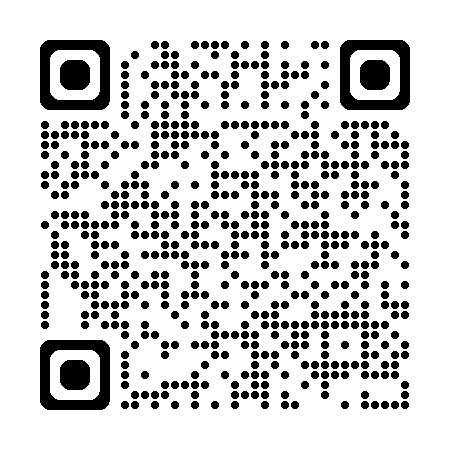
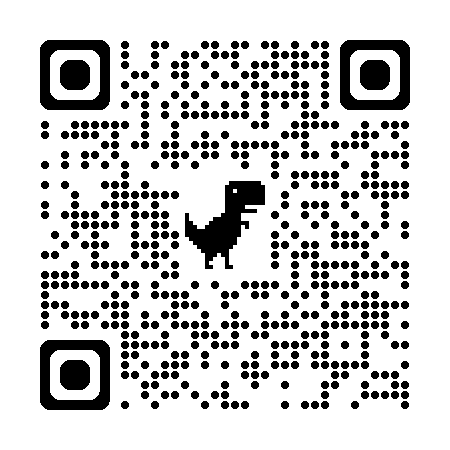
fix: change qr code destination

diff --git a/docs/presentation/index.html b/docs/presentation/index.html
@@ -190,7 +190,7 @@ Paul Wagner <a href="https://orcid.org/0000-0001-5914-0479" class="quarto-title-
 </div><div class="column" style="width:65%;">
 <p><br></p>
 <h4 id="download-materials-right-now">Download&nbsp;Materials&nbsp;Right&nbsp;Now!</h4>
-<p><a href="https://ryanstraight.com/research/nicek12-2025/">ryanstraight.com/research/nicek12‑2025</a></p>
+<p><a href="https://ryanstraight.github.io/nicek12-2025-materials/">ryanstraight.github.io/nicek12‑2025‑materials</a></p>
 <p><strong>You get:</strong></p>
 <ul>
 <li><strong>Quick Start guide</strong> (try it Monday!)</li>
@@ -374,7 +374,7 @@ Paul Wagner <a href="https://orcid.org/0000-0001-5914-0479" class="quarto-title-
 </section>
 <section id="the-evidence-ai-analysis" class="slide level2 smaller">
 <h2>The Evidence + AI Analysis</h2>
-<countdown-timer id="timer_905fe74b5cb8a35c851ac78624c2ad41016db4d1" minutes="02" seconds="00" class="countdown" warn-when="0" update-every="1" play-sound="false" blink-colon="false" start-immediately="false" tabindex="0" style="top: 0;right: 0;">
+<countdown-timer id="timer_af6c02646b8756d7e659c3be7fe365f6231eb68f" minutes="02" seconds="00" class="countdown" warn-when="0" update-every="1" play-sound="false" blink-colon="false" start-immediately="false" tabindex="0" style="top: 0;right: 0;">
  </countdown-timer>
 <div class="columns">
 <div class="column" style="width:50%;">
@@ -639,7 +639,7 @@ Force password reset, enable MFA</p>
 <li>What’s the COST if humans must approve everything?</li>
 <li>Where’s the line?</li>
 </ul>
-<countdown-timer id="timer_905fe74b5cb8a35c851ac78624c2ad41016db4d1" minutes="04" seconds="00" class="countdown" warn-when="0" update-every="1" play-sound="false" blink-colon="false" start-immediately="false" tabindex="0" style="right: 0;bottom: 0;">
+<countdown-timer id="timer_af6c02646b8756d7e659c3be7fe365f6231eb68f" minutes="04" seconds="00" class="countdown" warn-when="0" update-every="1" play-sound="false" blink-colon="false" start-immediately="false" tabindex="0" style="right: 0;bottom: 0;">
  </countdown-timer>
 <aside class="notes">
 <p>TABLE ACTIVITY TIME!</p>
@@ -830,7 +830,7 @@ Force password reset, enable MFA</p>
 </table>
 <p><strong>At your table:</strong> For #2 and #3—<strong>ACCEPT</strong>, <strong>MODIFY</strong>, or <strong>REJECT</strong>?</p>
 <p>Think: <em>What happens if we do this? What happens if we don’t?</em></p>
-<countdown-timer id="timer_905fe74b5cb8a35c851ac78624c2ad41016db4d1" minutes="02" seconds="30" class="countdown" warn-when="0" update-every="1" play-sound="false" blink-colon="false" start-immediately="false" tabindex="0" style="right: 0;bottom: 0;">
+<countdown-timer id="timer_af6c02646b8756d7e659c3be7fe365f6231eb68f" minutes="02" seconds="30" class="countdown" warn-when="0" update-every="1" play-sound="false" blink-colon="false" start-immediately="false" tabindex="0" style="right: 0;bottom: 0;">
  </countdown-timer>
 <aside class="notes">
 <p>[Click countdown] “Go! 90 seconds. For recommendations 2 and 3—accept as-is, modify, or reject?”</p>
@@ -1078,7 +1078,7 @@ Force password reset, enable MFA</p>
 <div style="text-align: center; color: #FFFFFF;">
 <p><span style="font-size: 2em;"><strong>Get the Materials!</strong></span></p>
 <p><img data-src="media/qr-nicek12.png" width="200"></p>
-<p><a href="https://ryanstraight.com/research/nicek12-2025/" style="color: #81D3EB;">ryanstraight.com/research/nicek12-2025</a></p>
+<p><a href="https://ryanstraight.github.io/nicek12-2025-materials/" style="color: #81D3EB;">ryanstraight.github.io/nicek12‑2025‑materials</a></p>
 <p><em>12 lesson plans • Career connections • Any resource level</em></p>
 <p><span style="font-size: 0.7em;"><strong>Presented by:</strong> <a href="mailto:ryanstraight@arizona.edu">Ryan Straight</a>, <a href="mailto:rjhonomichl@arizona.edu">Rob Honomichl</a>, &amp; <a href="mailto:paulewagner@arizona.edu">Paul Wagner</a></span><br>
 <span style="font-size: 0.7em;">Cyber Operations</span><br>

diff --git a/presentation/index.html b/presentation/index.html
@@ -190,7 +190,7 @@ Paul Wagner <a href="https://orcid.org/0000-0001-5914-0479" class="quarto-title-
 </div><div class="column" style="width:65%;">
 <p><br></p>
 <h4 id="download-materials-right-now">Download&nbsp;Materials&nbsp;Right&nbsp;Now!</h4>
-<p><a href="https://ryanstraight.com/research/nicek12-2025/">ryanstraight.com/research/nicek12‑2025</a></p>
+<p><a href="https://ryanstraight.github.io/nicek12-2025-materials/">ryanstraight.github.io/nicek12‑2025‑materials</a></p>
 <p><strong>You get:</strong></p>
 <ul>
 <li><strong>Quick Start guide</strong> (try it Monday!)</li>
@@ -374,7 +374,7 @@ Paul Wagner <a href="https://orcid.org/0000-0001-5914-0479" class="quarto-title-
 </section>
 <section id="the-evidence-ai-analysis" class="slide level2 smaller">
 <h2>The Evidence + AI Analysis</h2>
-<countdown-timer id="timer_905fe74b5cb8a35c851ac78624c2ad41016db4d1" minutes="02" seconds="00" class="countdown" warn-when="0" update-every="1" play-sound="false" blink-colon="false" start-immediately="false" tabindex="0" style="top: 0;right: 0;">
+<countdown-timer id="timer_af6c02646b8756d7e659c3be7fe365f6231eb68f" minutes="02" seconds="00" class="countdown" warn-when="0" update-every="1" play-sound="false" blink-colon="false" start-immediately="false" tabindex="0" style="top: 0;right: 0;">
  </countdown-timer>
 <div class="columns">
 <div class="column" style="width:50%;">
@@ -639,7 +639,7 @@ Force password reset, enable MFA</p>
 <li>What’s the COST if humans must approve everything?</li>
 <li>Where’s the line?</li>
 </ul>
-<countdown-timer id="timer_905fe74b5cb8a35c851ac78624c2ad41016db4d1" minutes="04" seconds="00" class="countdown" warn-when="0" update-every="1" play-sound="false" blink-colon="false" start-immediately="false" tabindex="0" style="right: 0;bottom: 0;">
+<countdown-timer id="timer_af6c02646b8756d7e659c3be7fe365f6231eb68f" minutes="04" seconds="00" class="countdown" warn-when="0" update-every="1" play-sound="false" blink-colon="false" start-immediately="false" tabindex="0" style="right: 0;bottom: 0;">
  </countdown-timer>
 <aside class="notes">
 <p>TABLE ACTIVITY TIME!</p>
@@ -830,7 +830,7 @@ Force password reset, enable MFA</p>
 </table>
 <p><strong>At your table:</strong> For #2 and #3—<strong>ACCEPT</strong>, <strong>MODIFY</strong>, or <strong>REJECT</strong>?</p>
 <p>Think: <em>What happens if we do this? What happens if we don’t?</em></p>
-<countdown-timer id="timer_905fe74b5cb8a35c851ac78624c2ad41016db4d1" minutes="02" seconds="30" class="countdown" warn-when="0" update-every="1" play-sound="false" blink-colon="false" start-immediately="false" tabindex="0" style="right: 0;bottom: 0;">
+<countdown-timer id="timer_af6c02646b8756d7e659c3be7fe365f6231eb68f" minutes="02" seconds="30" class="countdown" warn-when="0" update-every="1" play-sound="false" blink-colon="false" start-immediately="false" tabindex="0" style="right: 0;bottom: 0;">
  </countdown-timer>
 <aside class="notes">
 <p>[Click countdown] “Go! 90 seconds. For recommendations 2 and 3—accept as-is, modify, or reject?”</p>
@@ -1078,7 +1078,7 @@ Force password reset, enable MFA</p>
 <div style="text-align: center; color: #FFFFFF;">
 <p><span style="font-size: 2em;"><strong>Get the Materials!</strong></span></p>
 <p><img data-src="media/qr-nicek12.png" width="200"></p>
-<p><a href="https://ryanstraight.com/research/nicek12-2025/" style="color: #81D3EB;">ryanstraight.com/research/nicek12-2025</a></p>
+<p><a href="https://ryanstraight.github.io/nicek12-2025-materials/" style="color: #81D3EB;">ryanstraight.github.io/nicek12‑2025‑materials</a></p>
 <p><em>12 lesson plans • Career connections • Any resource level</em></p>
 <p><span style="font-size: 0.7em;"><strong>Presented by:</strong> <a href="mailto:ryanstraight@arizona.edu">Ryan Straight</a>, <a href="mailto:rjhonomichl@arizona.edu">Rob Honomichl</a>, &amp; <a href="mailto:paulewagner@arizona.edu">Paul Wagner</a></span><br>
 <span style="font-size: 0.7em;">Cyber Operations</span><br>
